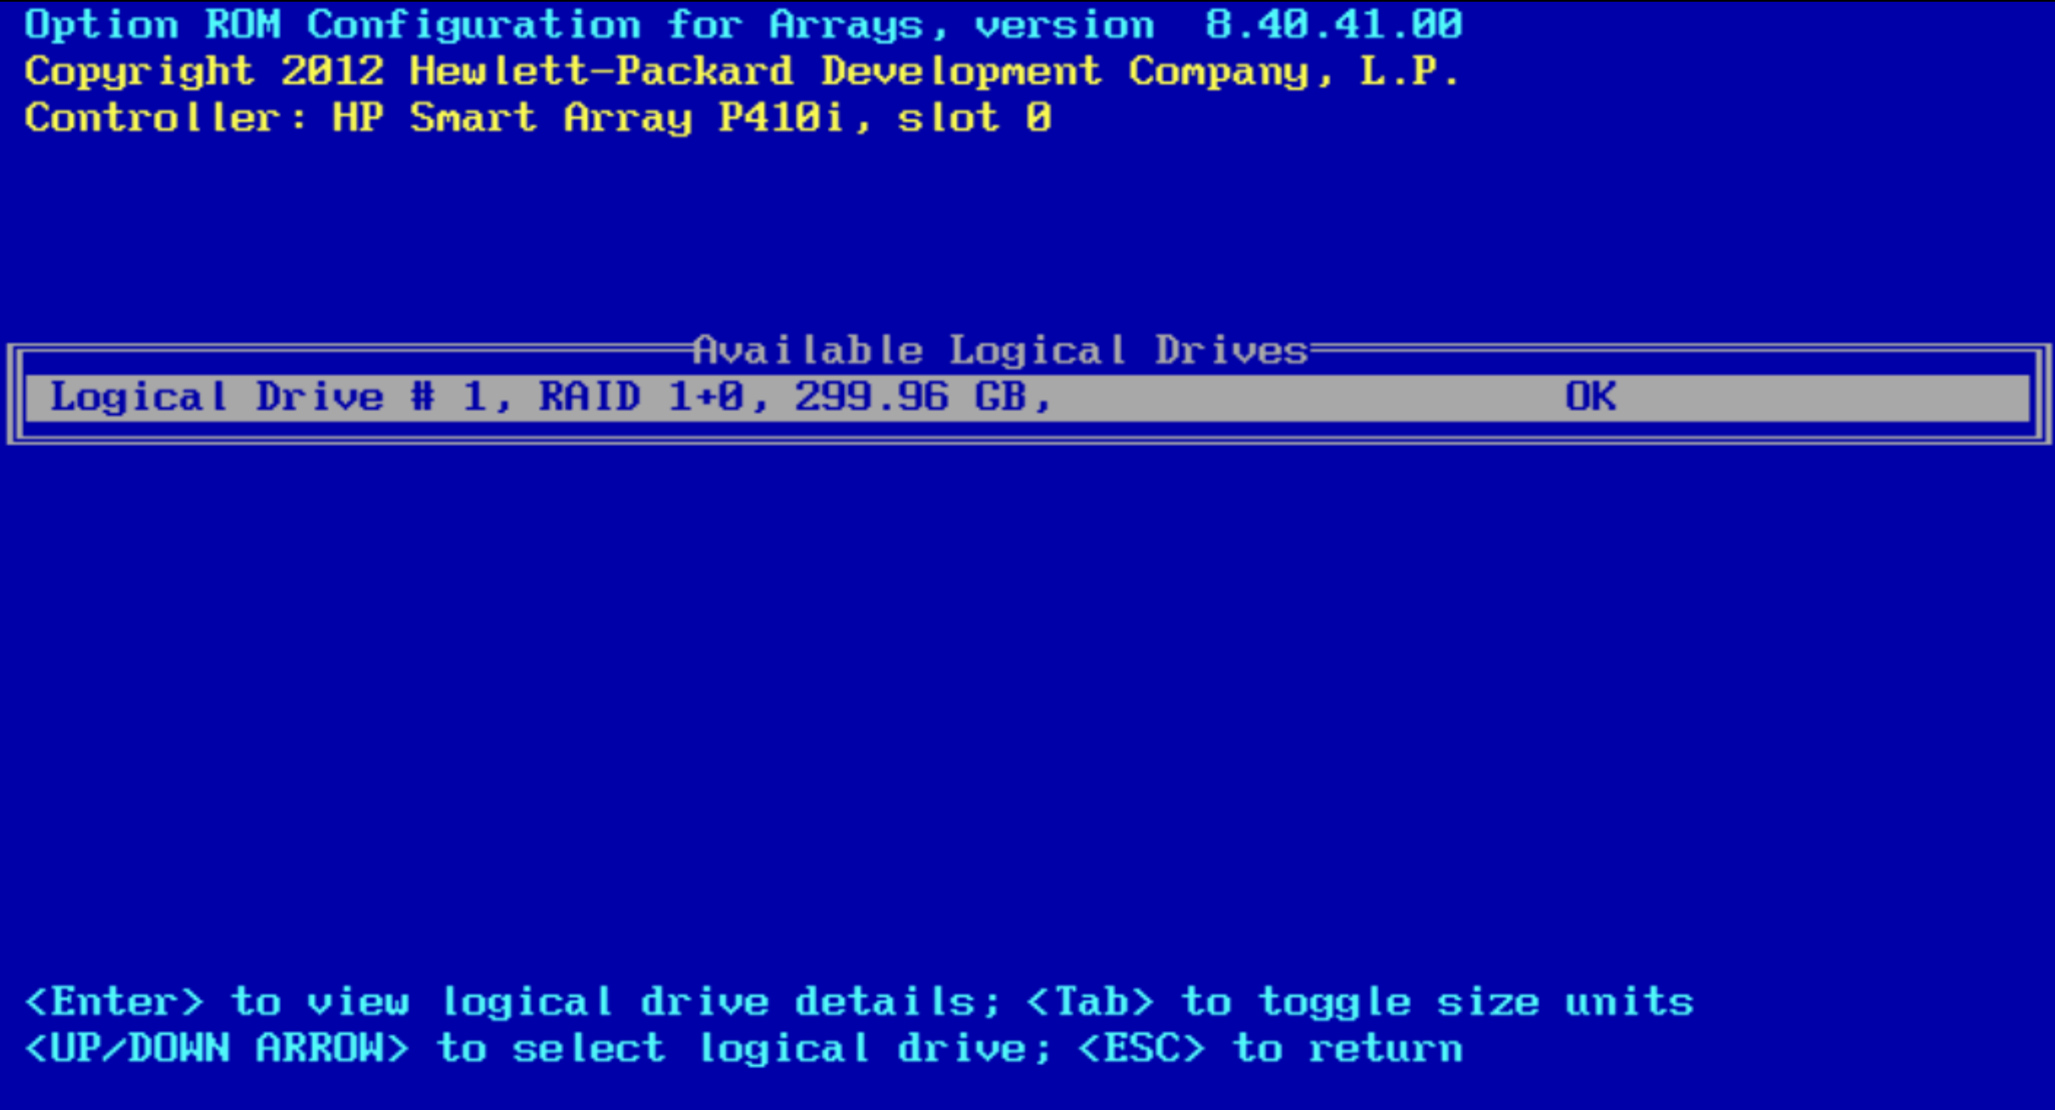
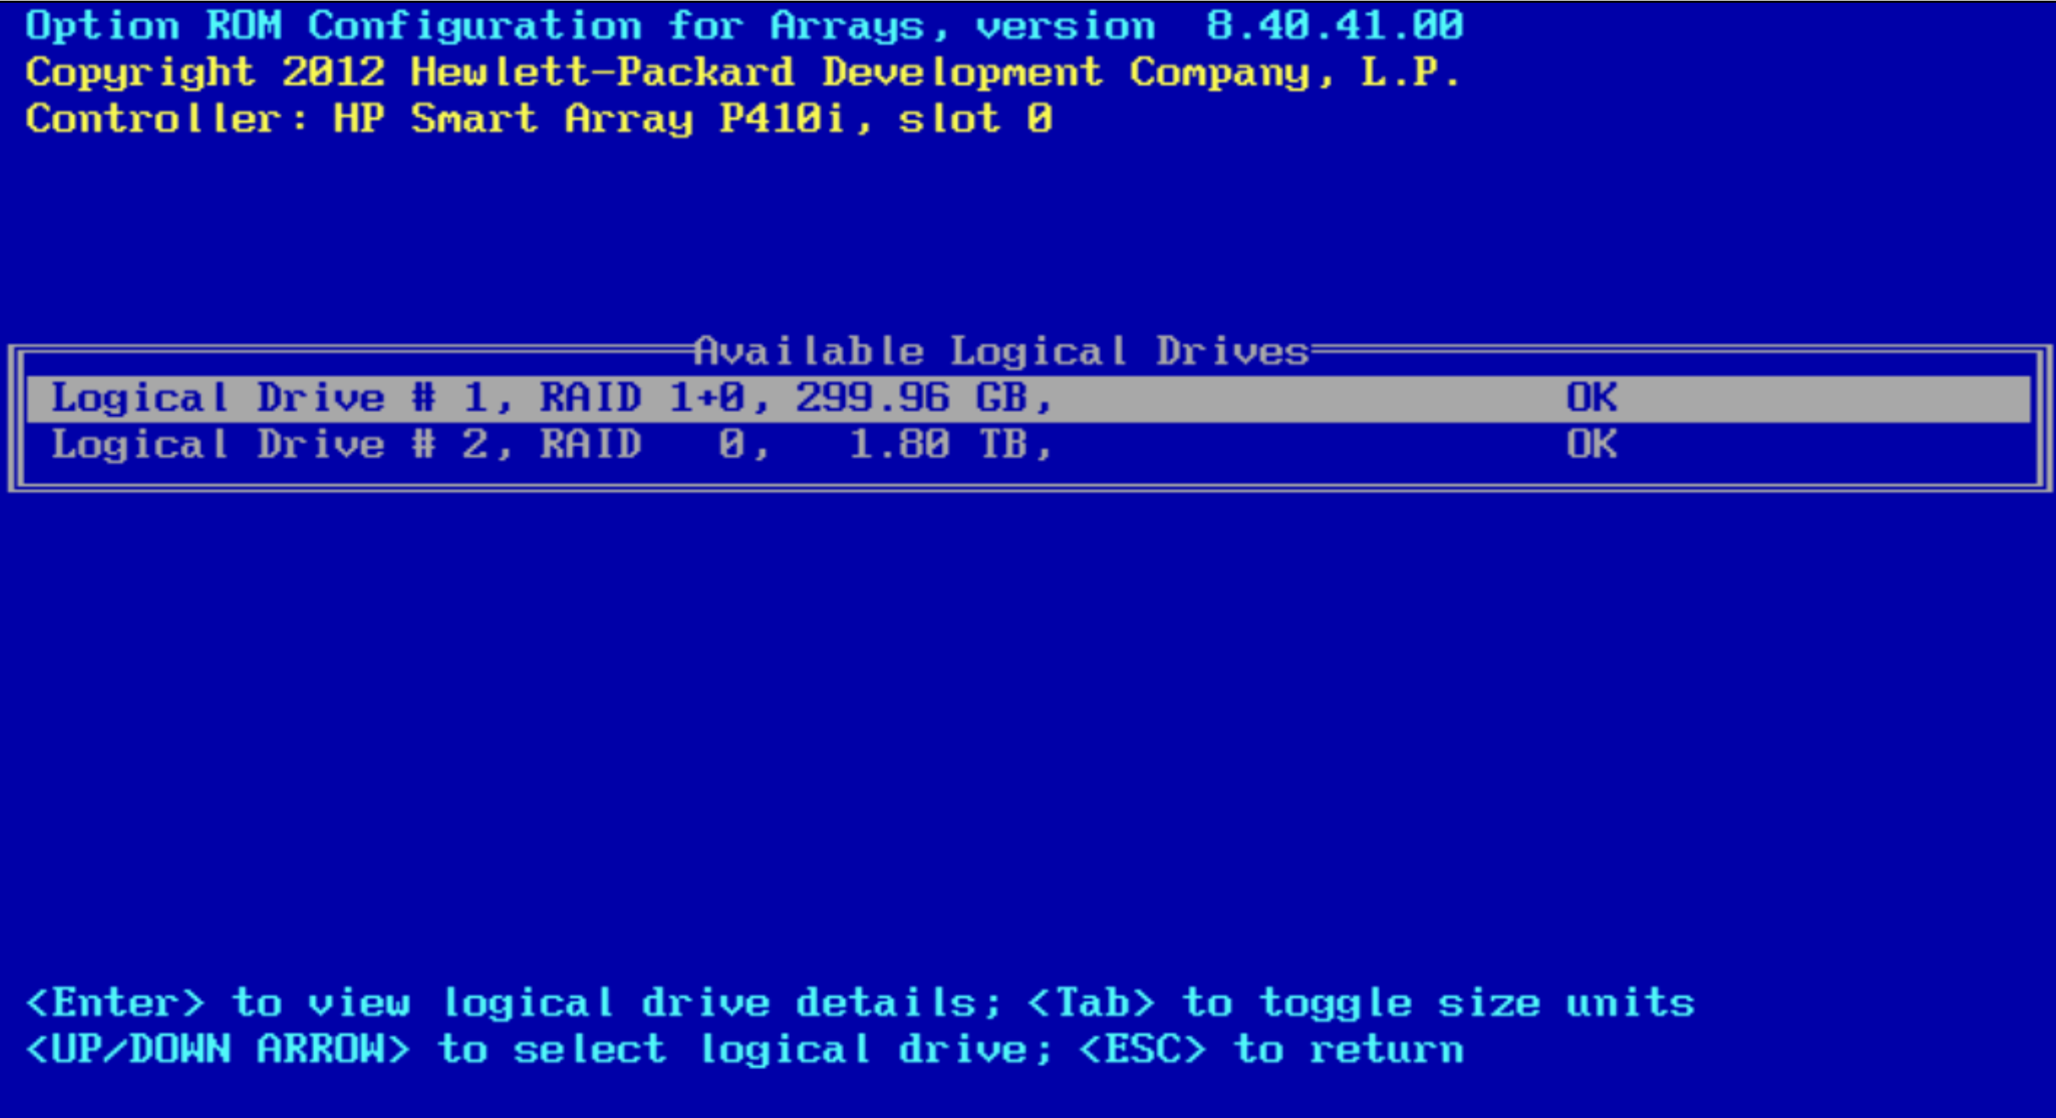
Edit RAID configuration documentation

Changed region(s): [[0.0, 0.3063, 1.0, 0.4595], [0.0, 0.0, 0.7163, 0.1225], [0.0, 0.8883, 0.8409, 0.9802]]

diff --git a/README.md b/README.md
@@ -62,8 +62,8 @@ Kuna ülesande järgi on vaja saavutada maksimaalne kõrgkäideldavus, valin `RA
 Nüüd on loogiline ketas loodud. Kontrollin seda peamenüü `View Logical Drive` sektsiooni alt:
 ![raid 4 samm](images/raid4.png)
 
-Kordan seda protsessi kõikide meie grupile antud füüsiliste serverite peal. Protsessi lõpuks on igale masinale
-seadistatud üks ~300 GB mahuga ketas.
+Kordan seda protsessi kõikide meie grupile antud füüsiliste serverite peal. Protsessi lõpus igale masinale saab seadistatud
+üks ketas ~300 GB mahuga, kuhu paigaldatakse OS, ning üks 1.8 TB mahuga, mida antakse CEPHile.
 
 # **2. OS paigaldamine**
 
